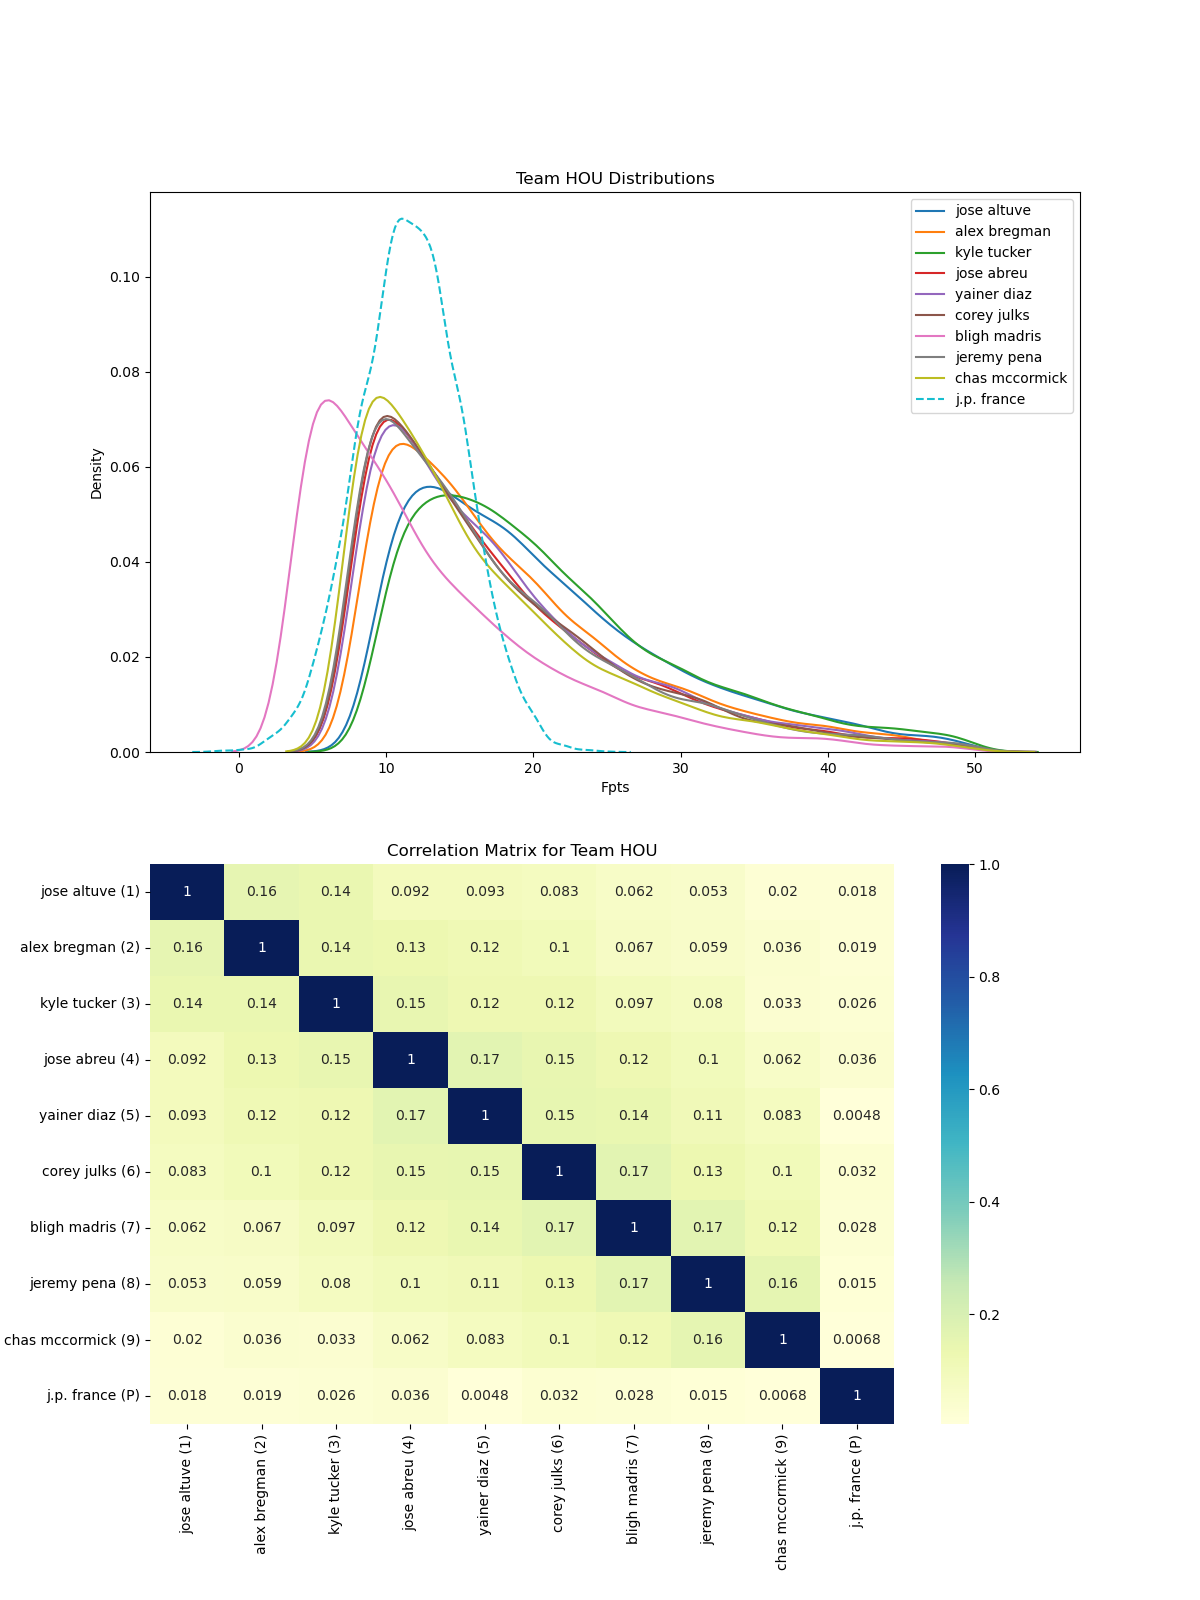
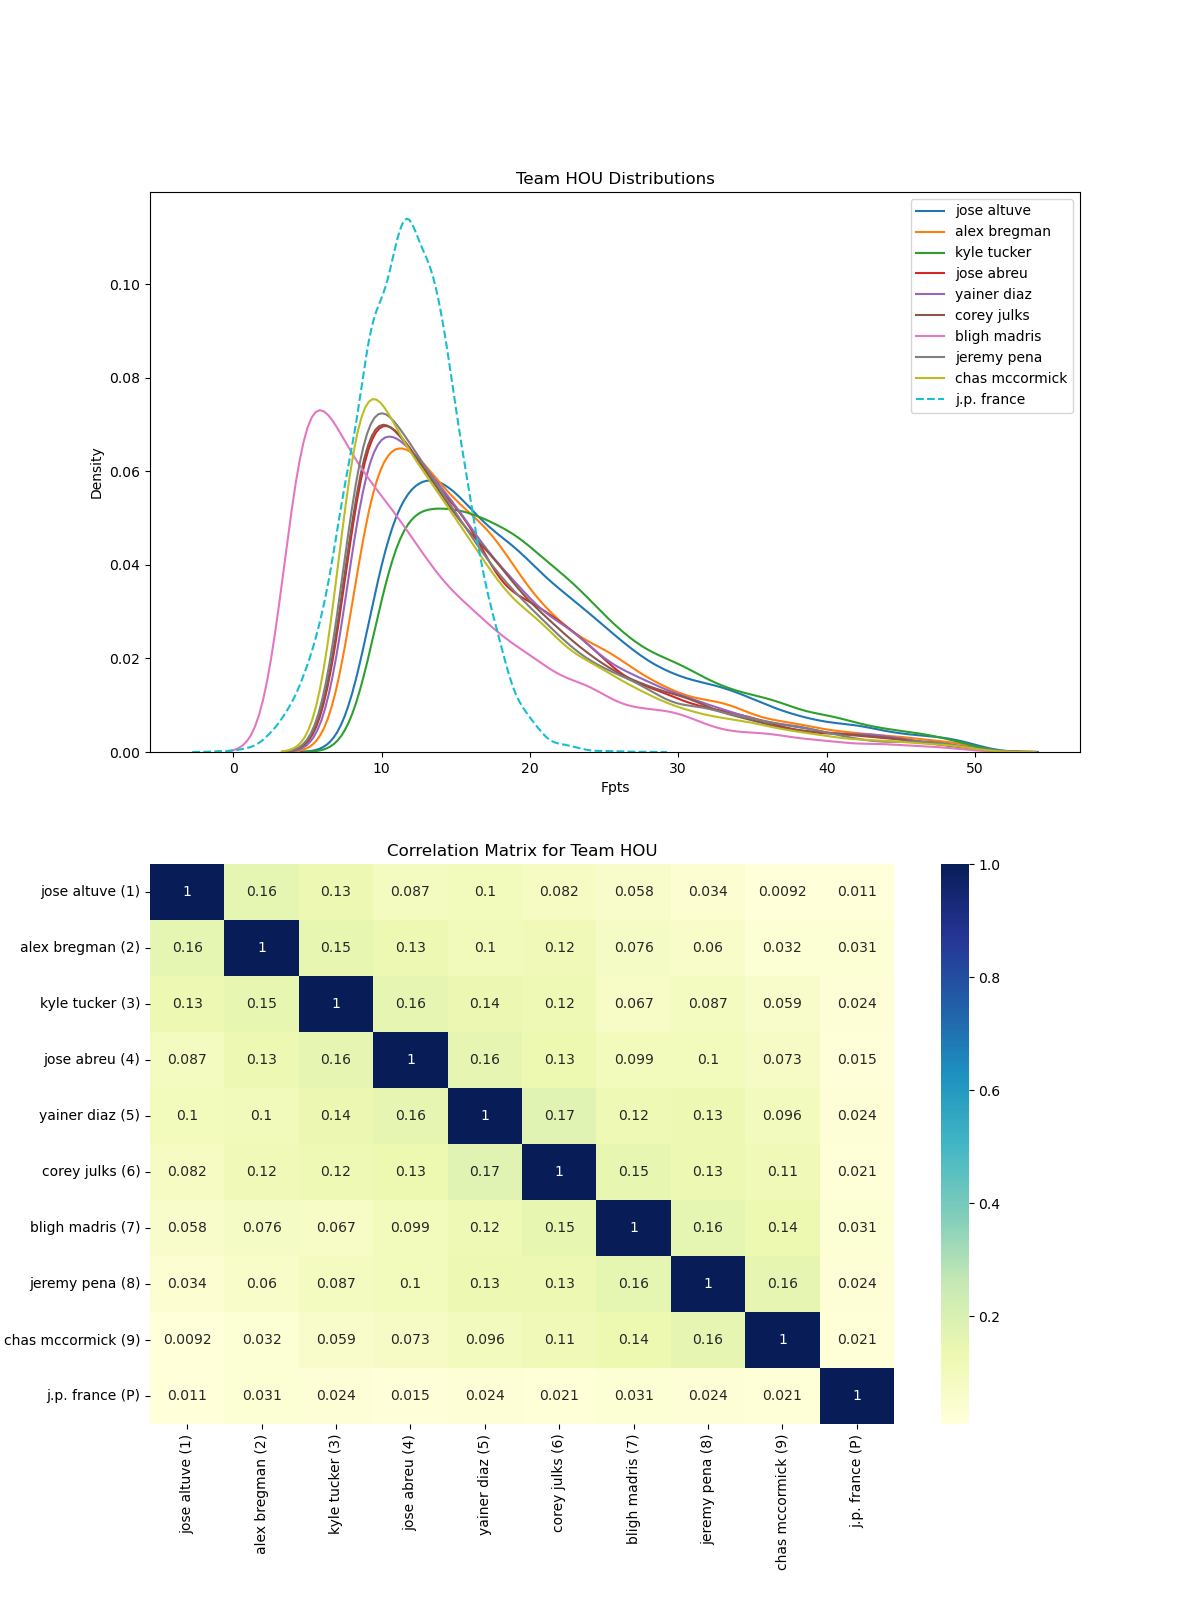
updated p v hitter adjustment

diff --git a/src/mlb_gpp_simulator.py b/src/mlb_gpp_simulator.py
@@ -91,6 +91,8 @@ class MLB_GPP_Simulator:
             "../{}_data/{}".format(site, self.config["team_stacks_path"]),
         )        
         self.load_team_stacks(stacks_path)
+
+
         
  #       batting_order_path = os.path.join(
  #           os.path.dirname(__file__),
@@ -404,6 +406,9 @@ class MLB_GPP_Simulator:
                 else:
                     team = row['team']
                 self.stacks_dict[team]= float(row["own%"])/100
+
+
+    
                     
     def remap(self, fieldnames):
         return ["P","C/1B","2B","3B","SS","OF","OF","OF","UTIL"]
@@ -901,7 +906,7 @@ class MLB_GPP_Simulator:
                 opposing_pitcher_samples = np.random.normal(loc=opposing_pitcher_fpts, scale=opposing_pitcher_stddev, size=size)
                 pitcher_samples_dict[opposing_pitcher_id] = opposing_pitcher_samples
 
-        # Adjust hitter and pitcher performance
+        # Adjust pitcher and hitter performance
         if opposing_pitcher_id is not None and pitcher_tuple_key['ID'] != opposing_pitcher_id and opposing_pitcher_samples is not None:
             pitcher_samples_mean = np.mean(pitcher_samples)
             opposing_pitcher_samples_mean = np.mean(opposing_pitcher_samples)
@@ -909,8 +914,13 @@ class MLB_GPP_Simulator:
             pitcher_performance_ratio = 1 - (pitcher_samples_mean / (pitcher_samples_mean + opposing_pitcher_samples_mean))
             opposing_pitcher_performance_ratio = 1 - pitcher_performance_ratio
 
+            # Adjust hitters performance based on pitcher's performance
             hitters_fpts = hitters_fpts * (1 + pitcher_performance_ratio)
-            pitcher_samples = pitcher_samples * (1 - opposing_pitcher_performance_ratio)
+            # Adjust pitchers performance based on hitter's performance
+            pitcher_samples = pitcher_samples * (1 - np.mean(hitters_fpts) / (np.mean(hitters_fpts) + pitcher_samples_mean))
+            # Adjust opposing pitcher's performance based on hitter's performance
+            opposing_pitcher_samples = opposing_pitcher_samples * (1 - np.mean(hitters_fpts) / (np.mean(hitters_fpts) + opposing_pitcher_samples_mean))
+
 
 
 
@@ -1008,6 +1018,7 @@ class MLB_GPP_Simulator:
 
 
 
+
     def run_tournament_simulation(self):
         print("Running " + str(self.num_iterations) + " simulations")
 
@@ -1017,24 +1028,6 @@ class MLB_GPP_Simulator:
         pitcher_hitter_correlation = -0.2
         size = self.num_iterations
 
-
-        # # matrix is 10 x 10. FIrst 9 rows are hitters, last row is pitcher from team of hitters who has a 0 correlation with the hitters on his team
-        # correlation_matrix = np.array([
-        #     [1, 0.2, 0.175, 0.15, 0.125, 0.1, 0.075, 0.05, 0.025, 0],
-        #     [0.2, 1, 0.2, 0.175, 0.15, 0.125, 0.1, 0.075, 0.05, 0],
-        #     [0.175, 0.2, 1, 0.2, 0.175, 0.15, 0.125, 0.1, 0.075, 0],
-        #     [0.15, 0.175, 0.2, 1, 0.2, 0.175, 0.15, 0.125, 0.1, 0],
-        #     [0.125, 0.15, 0.175, 0.2, 1, 0.2, 0.175, 0.15, 0.125, 0],
-        #     [0.1, 0.125, 0.15, 0.175, 0.2, 1, 0.2, 0.175, 0.15, 0],
-        #     [0.075, 0.1, 0.125, 0.15, 0.175, 0.2, 1, 0.2, 0.175, 0],
-        #     [0.05, 0.075, 0.1, 0.125, 0.15, 0.175, 0.2, 1, 0.2, 0],
-        #     [0.025, 0.05, 0.075, 0.1, 0.125, 0.15, 0.175, 0.2, 1, 0],
-        #     [0, 0, 0, 0, 0, 0, 0, 0, 0, 1]
-        # ])
-
-
-
-        
 
         with mp.Pool() as pool:
             team_simulation_params = [(team_id, team, pitcher_samples_dict, pitcher_hitter_correlation, size) for team_id, team in self.teams_dict.items()]

diff --git a/method.py b/method.py
@@ -1,0 +1,23 @@
+import numpy as np
+
+correlation_matrix = np.array([
+    [1, 0.2, 0.175, 0.15, 0.125, 0.1, 0.075, 0.05, 0.025, .02, .01, .01, .01, .01, .01, .01, .01, .01, .01, -.2],
+    [0.2, 1, 0.2, 0.175, 0.15, 0.125, 0.1, 0.075, 0.05, .02, .01, .01, .01, .01, .01, .01, .01, .01, .01, -.2],
+    [0.175, 0.2, 1, 0.2, 0.175, 0.15, 0.125, 0.1, 0.075, .02, .01, .01, .01, .01, .01, .01, .01, .01, .01, -.2],
+    [0.15, 0.175, 0.2, 1, 0.2, 0.175, 0.15, 0.125, 0.1, .02, .01, .01, .01, .01, .01, .01, .01, .01, .01, -.2],
+    [0.125, 0.15, 0.175, 0.2, 1, 0.2, 0.175, 0.15, 0.125, .02, .01, .01, .01, .01, .01, .01, .01, .01, .01, -.2],
+    [0.1, 0.125, 0.15, 0.175, 0.2, 1, 0.2, 0.175, 0.15, .02, .01, .01, .01, .01, .01, .01, .01, .01, .01, -.2],
+    [0.075, 0.1, 0.125, 0.15, 0.175, 0.2, 1, 0.2, 0.175, .02, .01, .01, .01, .01, .01, .01, .01, .01, .01, -.2],
+    [0.05, 0.075, 0.1, 0.125, 0.15, 0.175, 0.2, 1, 0.2, .02, .01, .01, .01, .01, .01, .01, .01, .01, .01, -.2],
+    [0.025, 0.05, 0.075, 0.1, 0.125, 0.15, 0.175, 0.2, 1, .02, .01, .01, .01, .01, .01, .01, .01, .01, .01, -.2],
+    [.02, .02, .02, .02, .02, .02, .02, .02, .02, 1, .01, .01, .01, .01, .01, .01, .01, .01, .01, -.2]
+])
+
+# Reverse the order of each row
+reversed_rows = np.flip(correlation_matrix, axis=1)
+
+# Append the reversed rows to the original one
+correlation_matrix = np.vstack((correlation_matrix, reversed_rows))
+
+print(correlation_matrix)
+
